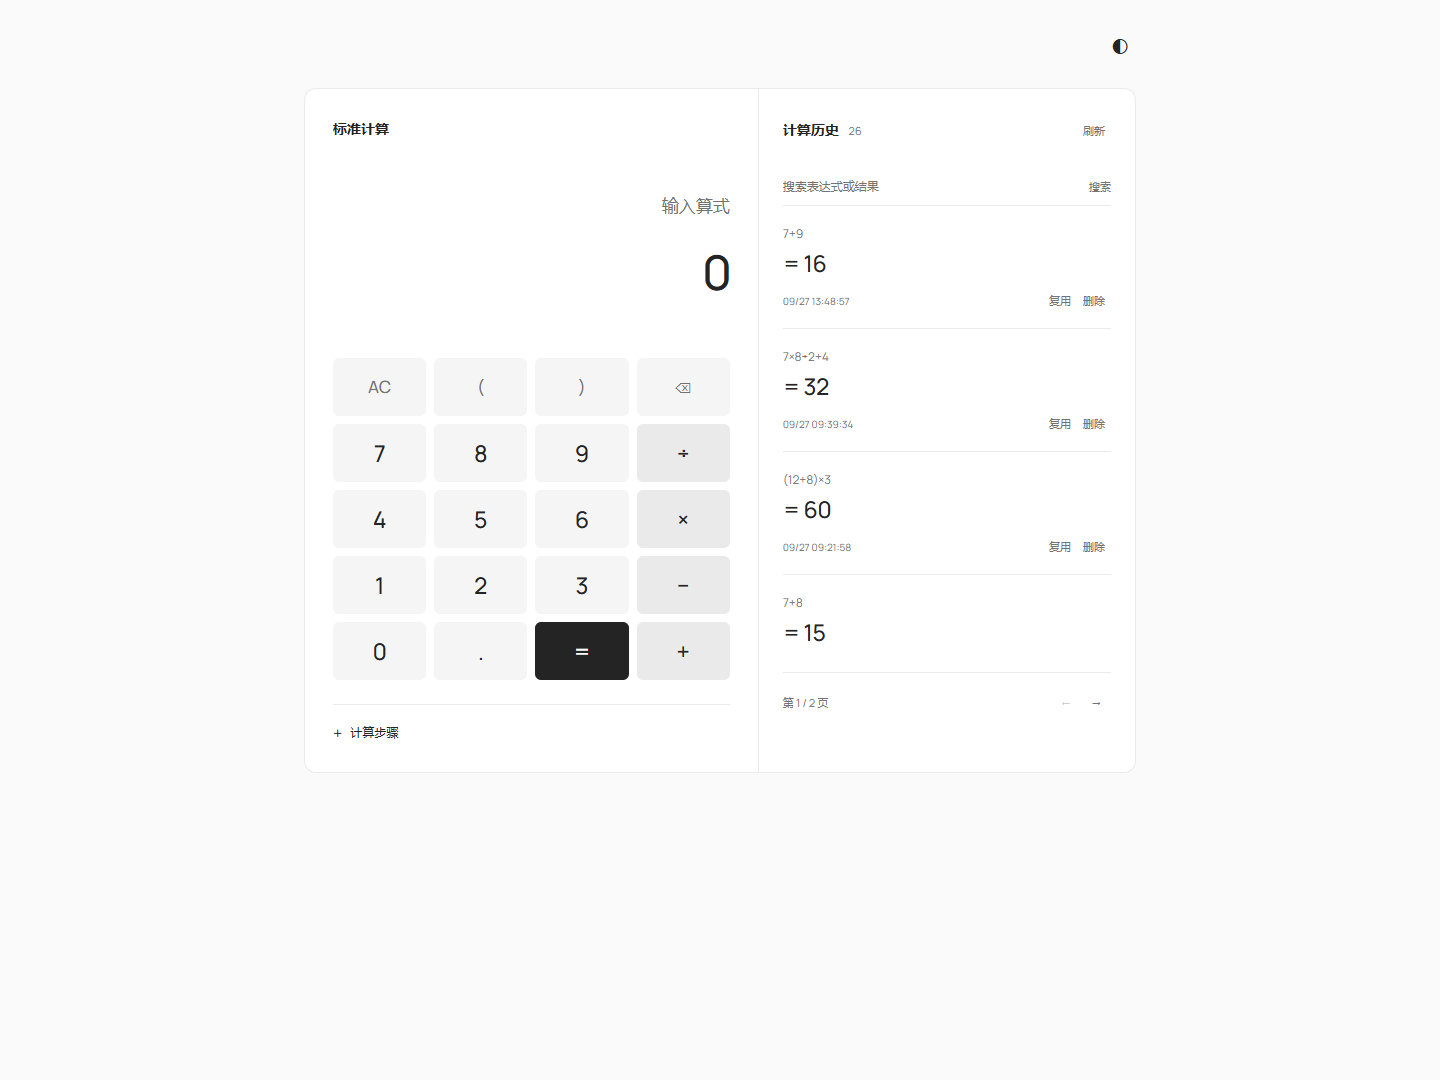
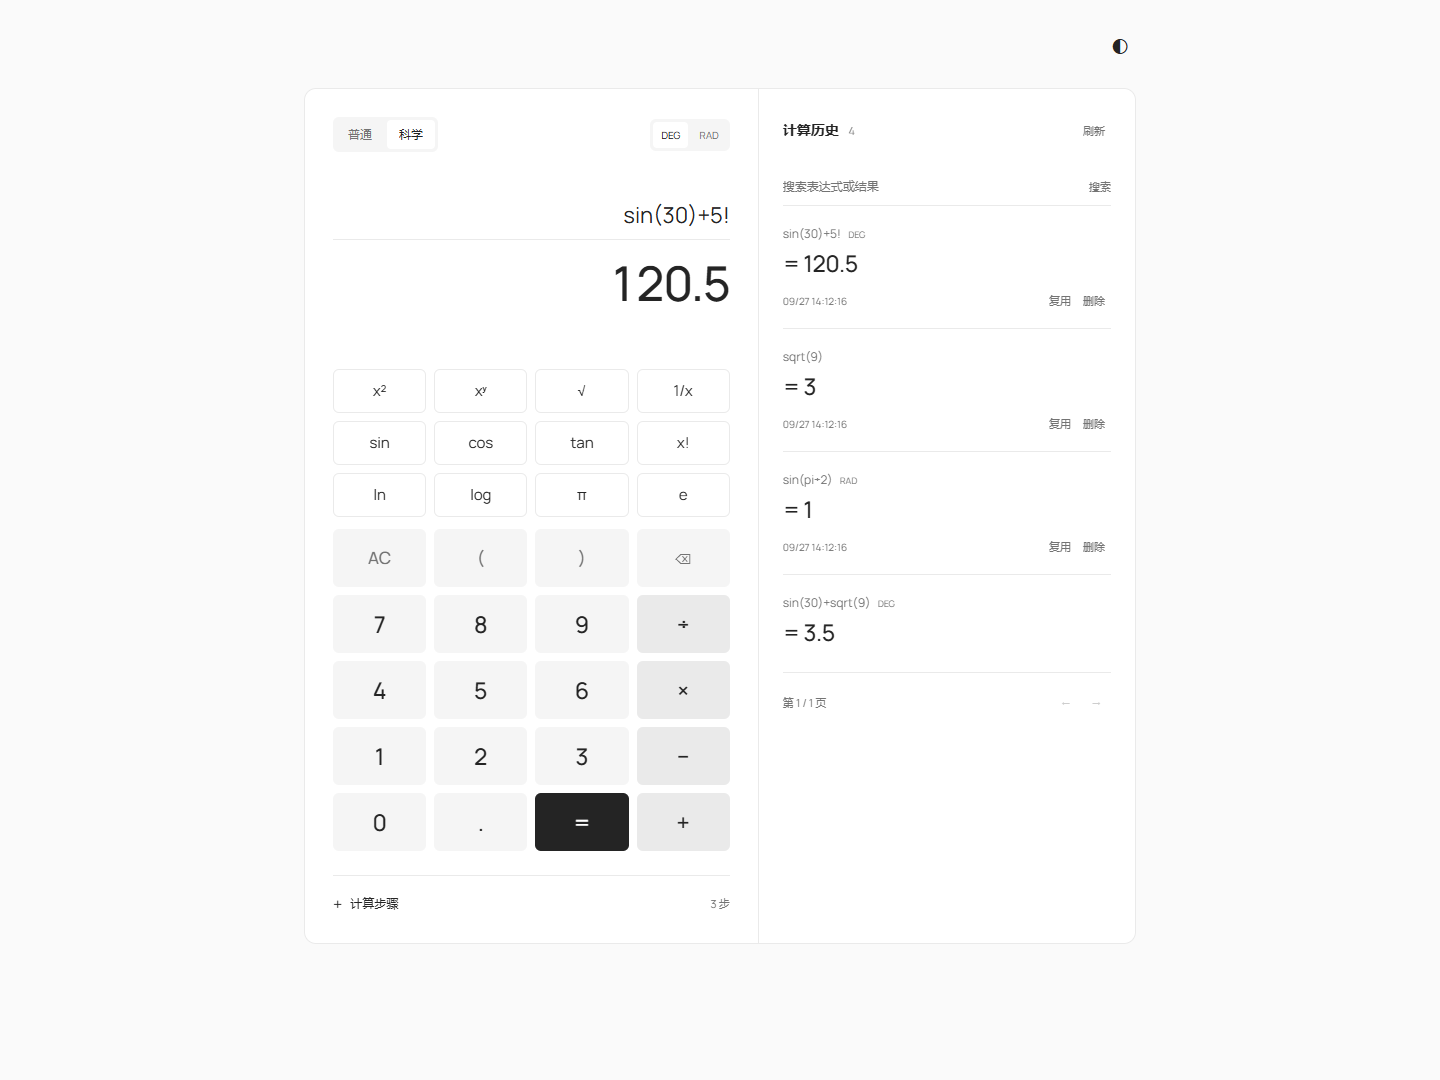
Add basic and scientific calculator modes

diff --git a/src/main.js b/src/main.js
@@ -7,8 +7,68 @@ const byId = (id) => document.getElementById(id);
 const input = byId('expression');
 const result = byId('result');
 const status = byId('calculation-status');
-const state = { busy: false, page: 1, total: 0, query: '', historyVersion: 0, deleteId: null };
+const state = {
+  busy: false,
+  page: 1,
+  total: 0,
+  query: '',
+  historyVersion: 0,
+  deleteId: null,
+  mode: 'basic',
+  angle: 'deg',
+};
 const pageSize = 20;
+
+function savePreference(key, value) {
+  try {
+    localStorage.setItem(key, value);
+  } catch {
+    /* Optional storage. */
+  }
+}
+function setMode(mode) {
+  state.mode = mode;
+  byId('science-keys').hidden = mode !== 'scientific';
+  byId('angle-switch').hidden = mode !== 'scientific';
+  document
+    .querySelectorAll('[data-mode]')
+    .forEach((button) => button.setAttribute('aria-pressed', String(button.dataset.mode === mode)));
+  savePreference('calculator-mode', mode);
+}
+function setAngle(angle) {
+  if (state.angle !== angle) invalidateResult();
+  state.angle = angle;
+  document
+    .querySelectorAll('[data-angle]')
+    .forEach((button) =>
+      button.setAttribute('aria-pressed', String(button.dataset.angle === angle)),
+    );
+  savePreference('calculator-angle', angle);
+}
+document.querySelectorAll('[data-mode]').forEach((button) =>
+  button.addEventListener('click', () => {
+    if (!state.busy) setMode(button.dataset.mode);
+  }),
+);
+document.querySelectorAll('[data-angle]').forEach((button) =>
+  button.addEventListener('click', () => {
+    if (!state.busy) setAngle(button.dataset.angle);
+  }),
+);
+try {
+  setMode(localStorage.getItem('calculator-mode') === 'scientific' ? 'scientific' : 'basic');
+  setAngle(localStorage.getItem('calculator-angle') === 'rad' ? 'rad' : 'deg');
+} catch {
+  /* Defaults work without storage. */
+}
+byId('science-keys').addEventListener('click', (event) => {
+  const button = event.target.closest('button');
+  if (!button || state.busy) return;
+  if (button.dataset.value) return insert(button.dataset.value);
+  const selected = input.value.slice(input.selectionStart, input.selectionEnd);
+  const prefix = button.dataset.function === 'reciprocal' ? '1/(' : `${button.dataset.function}(`;
+  insert(prefix + (selected ? selected + ')' : ''));
+});
 
 function setStatus(message, error = false) {
   status.textContent = message;
@@ -77,15 +137,19 @@ byId('calculation-form').addEventListener('submit', async (event) => {
   state.busy = true;
   invalidateResult();
   input.readOnly = true;
-  document.querySelectorAll('.keypad button, [data-example], .reuse').forEach((button) => {
-    button.disabled = true;
-  });
+  document
+    .querySelectorAll(
+      '.keypad button, .science-keys button, [data-mode], [data-angle], [data-example], .reuse',
+    )
+    .forEach((button) => {
+      button.disabled = true;
+    });
   setStatus('计算中…');
   const slowMessage = setTimeout(() => setStatus('服务启动中…'), 6000);
   try {
     const data = await request('/api/calculate', {
       method: 'POST',
-      body: JSON.stringify({ expression: input.value }),
+      body: JSON.stringify({ expression: input.value, angle_mode: state.angle }),
     });
     clearTimeout(slowMessage);
     result.textContent = data.result;
@@ -115,9 +179,13 @@ byId('calculation-form').addEventListener('submit', async (event) => {
     clearTimeout(slowMessage);
     state.busy = false;
     input.readOnly = false;
-    document.querySelectorAll('.keypad button, [data-example], .reuse').forEach((button) => {
-      button.disabled = false;
-    });
+    document
+      .querySelectorAll(
+        '.keypad button, .science-keys button, [data-mode], [data-angle], [data-example], .reuse',
+      )
+      .forEach((button) => {
+        button.disabled = false;
+      });
   }
 });
 
@@ -141,6 +209,12 @@ function renderRecord(record) {
   const expression = document.createElement('p');
   expression.className = 'record-expression';
   expression.textContent = record.expression.replaceAll('*', '×').replaceAll('/', '÷');
+  if (/\b(sin|cos|tan)\s*\(/.test(record.expression)) {
+    const unit = document.createElement('span');
+    unit.className = 'angle-label';
+    unit.textContent = (record.angle_mode || 'deg').toUpperCase();
+    expression.append(' ', unit);
+  }
   const answer = document.createElement('p');
   answer.className = 'record-result';
   answer.textContent = `= ${record.result}`;
@@ -163,7 +237,11 @@ function renderRecord(record) {
   reuse.textContent = '复用';
   reuse.disabled = state.busy;
   reuse.addEventListener('click', () => {
-    if (!state.busy) setExpression(record.expression);
+    if (!state.busy) {
+      if (/[a-zπ^!]/i.test(record.expression)) setMode('scientific');
+      setAngle(record.angle_mode === 'rad' ? 'rad' : 'deg');
+      setExpression(record.expression);
+    }
   });
   const remove = document.createElement('button');
   remove.type = 'button';

diff --git a/index.html b/index.html
@@ -27,7 +27,15 @@
       <div class="layout">
         <section class="calculator card" aria-label="计算器">
           <div class="section-heading">
-            <h1>标准计算</h1>
+            <h1 class="sr-only">计算器</h1>
+            <div class="mode-switch" role="group" aria-label="计算器模式">
+              <button type="button" data-mode="basic" aria-pressed="true">普通</button>
+              <button type="button" data-mode="scientific" aria-pressed="false">科学</button>
+            </div>
+            <div id="angle-switch" class="mode-switch" role="group" aria-label="角度单位" hidden>
+              <button type="button" data-angle="deg" aria-pressed="true">DEG</button>
+              <button type="button" data-angle="rad" aria-pressed="false">RAD</button>
+            </div>
           </div>
           <form id="calculation-form" novalidate>
             <div class="display">
@@ -47,6 +55,20 @@
                 ><output id="result" aria-live="polite">0</output>
               </div>
               <div id="calculation-status" class="calculation-status" role="status"></div>
+            </div>
+            <div id="science-keys" class="science-keys" aria-label="科学运算" hidden>
+              <button type="button" data-value="^2" aria-label="平方">x²</button>
+              <button type="button" data-value="^" aria-label="乘方">xʸ</button>
+              <button type="button" data-function="sqrt" aria-label="开平方">√</button>
+              <button type="button" data-function="reciprocal" aria-label="倒数">1/x</button>
+              <button type="button" data-function="sin">sin</button>
+              <button type="button" data-function="cos">cos</button>
+              <button type="button" data-function="tan">tan</button>
+              <button type="button" data-value="!" aria-label="阶乘">x!</button>
+              <button type="button" data-function="ln">ln</button>
+              <button type="button" data-function="log">log</button>
+              <button type="button" data-value="π" aria-label="圆周率">π</button>
+              <button type="button" data-value="e" aria-label="自然常数">e</button>
             </div>
             <div class="keypad" aria-label="数字与运算符键盘">
               <button type="button" data-action="clear" class="key utility clear">AC</button

diff --git a/src/style.css b/src/style.css
@@ -532,9 +532,78 @@ dialog p {
 }
 
 /* Keep supporting labels available to screen readers without visual clutter. */
-.sr-only { position:absolute; width:1px; height:1px; padding:0; margin:-1px; overflow:hidden; clip-path:inset(50%); white-space:nowrap; border:0; }
-.topbar { justify-content:flex-end; padding-bottom:0; }
-.workspace { margin-top:26px; }
-.connection.connected { display:none; }
-.result-row { justify-content:flex-end; }
-.steps { margin-top:24px; }
+.sr-only {
+  position: absolute;
+  width: 1px;
+  height: 1px;
+  padding: 0;
+  margin: -1px;
+  overflow: hidden;
+  clip-path: inset(50%);
+  white-space: nowrap;
+  border: 0;
+}
+.topbar {
+  justify-content: flex-end;
+  padding-bottom: 0;
+}
+.workspace {
+  margin-top: 26px;
+}
+.connection.connected {
+  display: none;
+}
+.result-row {
+  justify-content: flex-end;
+}
+.steps {
+  margin-top: 24px;
+}
+
+[hidden] {
+  display: none !important;
+}
+.mode-switch {
+  display: flex;
+  gap: 3px;
+  padding: 3px;
+  background: var(--key);
+  border-radius: 6px;
+}
+.mode-switch button {
+  border: 0;
+  border-radius: 4px;
+  background: transparent;
+  color: var(--muted);
+  padding: 6px 12px;
+  font-size: 12px;
+}
+.mode-switch button[aria-pressed='true'] {
+  background: var(--surface);
+  color: var(--ink);
+}
+#angle-switch button {
+  padding: 6px 8px;
+  font-size: 10px;
+}
+.science-keys {
+  display: grid;
+  grid-template-columns: repeat(4, minmax(0, 1fr));
+  gap: 8px;
+  margin-bottom: 12px;
+}
+.science-keys button {
+  min-height: 44px;
+  border: 1px solid var(--line);
+  border-radius: 6px;
+  background: var(--surface);
+  font-size: 15px;
+}
+.science-keys button:hover:not(:disabled) {
+  background: var(--key);
+}
+.angle-label {
+  font-size: 9px;
+  color: var(--muted);
+  margin-left: 5px;
+}

diff --git a/README.md b/README.md
@@ -55,3 +55,12 @@ Stop the development server before previewing on the same port. Backend tests li
 Create a Render Static Site connected to this repository. Build command: `npm ci && npm run build`; publish directory: `dist`. Set `VITE_API_BASE_URL` to the backend HTTPS origin, then rebuild. Set the backend `ALLOWED_ORIGINS` to this site's origin. Public deployment is not automatically performed by this repository upload.
 
 Do not put database passwords in `VITE_*` variables: they are public client-side configuration. See [Render static sites](https://render.com/docs/static-sites) and [code standards](codestyle.md).
+
+
+## 普通与科学模式
+
+顶部普通／科学按钮切换键盘并记住选择，切换不清空输入或结果。科学模式提供平方、乘方、开方、倒数、阶乘、三角函数、对数与 π/e；DEG 表示角度、RAD 表示弧度，默认 DEG。改变角度单位会清除旧结果，需重新计算。
+
+函数键包裹选中的表达式，未选中时插入函数开头，补齐右括号后按等号或 Enter。例如 `sin(30)`（DEG）为 `0.5`，`sin(pi/2)`（RAD）为 `1`。倒数键插入 `1/(`，平方插入 `^2`。乘号必须明确输入。
+
+科学表达式复用时自动展开科学键盘，恢复记录的角度单位。全部运算在后端完成。三角函数为约 15 位有效数字的近似计算；定义域错误不会保存记录。先升级后端，再发布此前端。
